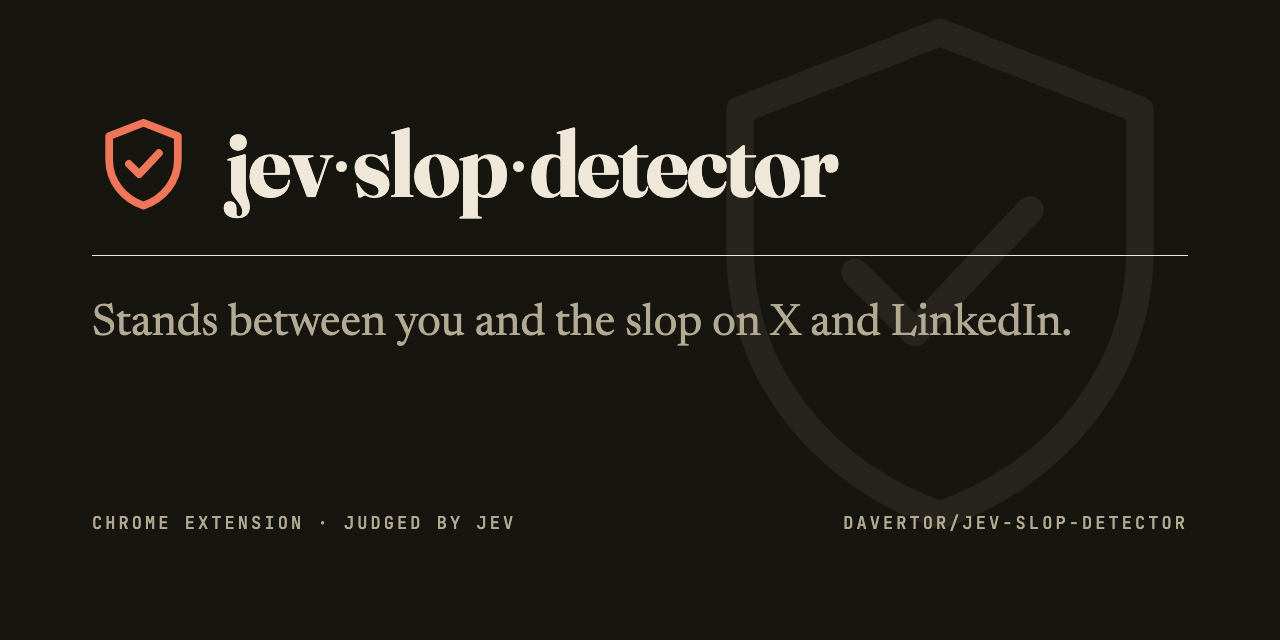
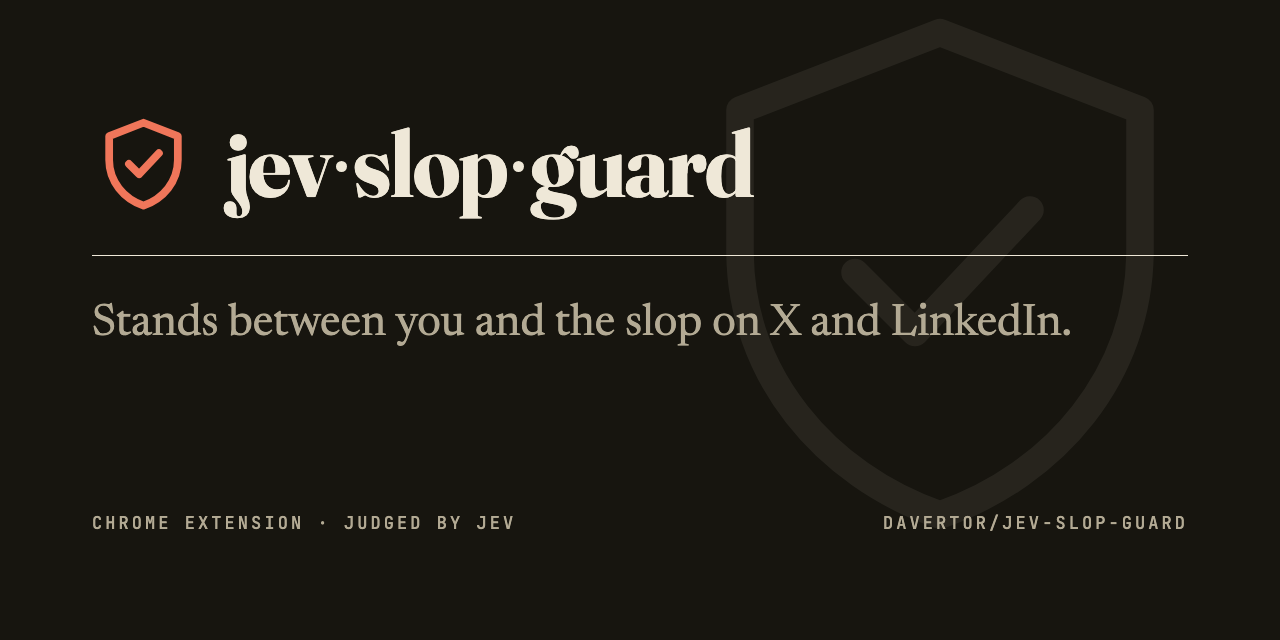
chore: rename to jev-slop-guard
Repo, package, manifest name (Jev Slop Guard), user-facing strings,
README, hero and social media all carry the same name. Storage keys
and CSS class prefixes stay unchanged so existing installs keep their
settings. Rebuilt chrome-mv3 at 0.1.24.

diff --git a/chrome-mv3/content-scripts/linkedin-feed.js b/chrome-mv3/content-scripts/linkedin-feed.js
@@ -765,7 +765,7 @@
 		if (document.querySelector(".slop-guard-banner")) return;
 		const banner = document.createElement("div");
 		banner.className = "slop-guard-banner";
-		banner.textContent = message ?? "Slop Guard: add your TypeSafe or OpenRouter API key in the extension popup.";
+		banner.textContent = message ?? "Jev Slop Guard: add your TypeSafe or OpenRouter API key in the extension popup.";
 		document.body.append(banner);
 	}
 	//#endregion
@@ -785,7 +785,7 @@
 				listArticles: listLinkedInArticles,
 				extract: extractLinkedInPost,
 				undoKey: "slopGuard.undone.linkedin.v1",
-				missingKeyMessage: "Slop Guard (LinkedIn): add your TypeSafe or OpenRouter API key in the extension popup."
+				missingKeyMessage: "Jev Slop Guard (LinkedIn): add your TypeSafe or OpenRouter API key in the extension popup."
 			});
 		}
 	});
@@ -809,7 +809,7 @@
 			bar.style.cssText = "position:fixed;left:12px;bottom:40px;z-index:2147483646;padding:6px 10px;border-radius:999px;background:#553011;color:#fff;font:12px/1.3 system-ui,sans-serif;pointer-events:none;";
 			document.body.append(bar);
 		}
-		bar.textContent = `Slop Guard LI · cards ${cards} · ready ${ready}`;
+		bar.textContent = `Jev Slop Guard LI · cards ${cards} · ready ${ready}`;
 	}
 	//#endregion
 	//#region node_modules/.pnpm/wxt@0.21.4_esbuild@0.28.2_eslint@9.39.4_jiti@2.7.0__rolldown@1.2.9_typescript@5.9.3_vit_47c24954015f6262a28dfea2974a21a8/node_modules/wxt/dist/utils/internal/logger.mjs
@@ -1056,7 +1056,7 @@
 		}
 	};
 	//#endregion
-	//#region \0virtual:wxt-content-script-isolated-world-entrypoint?/Users/dverdu/Python_projects/jev-slop-detector/entrypoints/linkedin-feed.content/index.ts
+	//#region \0virtual:wxt-content-script-isolated-world-entrypoint?/Users/davertor/Python_projects/jev-slop-detector/entrypoints/linkedin-feed.content/index.ts
 	/** Wrapper around `console` with a "[wxt]" prefix */
 	var logger = {
 		debug: (...args) => ([...args], void 0),

diff --git a/chrome-mv3/content-scripts/x-timeline.js b/chrome-mv3/content-scripts/x-timeline.js
@@ -876,7 +876,7 @@
 		if (document.querySelector(".slop-guard-banner")) return;
 		const banner = document.createElement("div");
 		banner.className = "slop-guard-banner";
-		banner.textContent = message ?? "Slop Guard: add your TypeSafe or OpenRouter API key in the extension popup.";
+		banner.textContent = message ?? "Jev Slop Guard: add your TypeSafe or OpenRouter API key in the extension popup.";
 		document.body.append(banner);
 	}
 	//#endregion
@@ -913,7 +913,7 @@
 			if (info.ok) ready += 1;
 			else {
 				missCounts.set(info.reason, (missCounts.get(info.reason) ?? 0) + 1);
-				console.debug("[slop-guard] extract", info.reason, card);
+				console.debug("[jev-slop-guard] extract", info.reason, card);
 			}
 		}
 		return {
@@ -1223,7 +1223,7 @@
 		}
 	};
 	//#endregion
-	//#region \0virtual:wxt-content-script-isolated-world-entrypoint?/Users/dverdu/Python_projects/jev-slop-detector/entrypoints/x-timeline.content/index.ts
+	//#region \0virtual:wxt-content-script-isolated-world-entrypoint?/Users/davertor/Python_projects/jev-slop-detector/entrypoints/x-timeline.content/index.ts
 	/** Wrapper around `console` with a "[wxt]" prefix */
 	var logger = {
 		debug: (...args) => ([...args], void 0),

diff --git a/entrypoints/linkedin-feed.content/index.ts b/entrypoints/linkedin-feed.content/index.ts
@@ -24,7 +24,7 @@ export default defineContentScript({
       extract: extractLinkedInPost,
       undoKey: 'slopGuard.undone.linkedin.v1',
       missingKeyMessage:
-        'Slop Guard (LinkedIn): add your TypeSafe or OpenRouter API key in the extension popup.',
+        'Jev Slop Guard (LinkedIn): add your TypeSafe or OpenRouter API key in the extension popup.',
     });
   },
 });
@@ -46,5 +46,5 @@ function showLiProbe(): void {
       'position:fixed;left:12px;bottom:40px;z-index:2147483646;padding:6px 10px;border-radius:999px;background:#553011;color:#fff;font:12px/1.3 system-ui,sans-serif;pointer-events:none;';
     document.body.append(bar);
   }
-  bar.textContent = `Slop Guard LI · cards ${cards} · ready ${ready}`;
+  bar.textContent = `Jev Slop Guard LI · cards ${cards} · ready ${ready}`;
 }

diff --git a/chrome-mv3/options.html b/chrome-mv3/options.html
@@ -3,11 +3,11 @@
   <head>
     <meta charset="UTF-8">
     <meta name="viewport" content="width=device-width, initial-scale=1.0">
-    <title>Slop Guard options</title>
+    <title>Jev Slop Guard options</title>
     <meta name="manifest.open_in_tab" content="true">
-    <script type="module" crossorigin src="/chunks/options-Cru38b9V.js"></script>
+    <script type="module" crossorigin src="/chunks/options-BApkLZN-.js"></script>
     <link rel="modulepreload" crossorigin href="/chunks/settings-DRS-MZ5q.js">
-    <link rel="modulepreload" crossorigin href="/chunks/settings-ui-B5-7mkm2.js">
+    <link rel="modulepreload" crossorigin href="/chunks/settings-ui-DfzwOyxx.js">
     <link rel="stylesheet" crossorigin href="/assets/settings-ui-WEyiZskk.css">
   </head>
   <body>

diff --git a/chrome-mv3/popup.html b/chrome-mv3/popup.html
@@ -3,10 +3,10 @@
   <head>
     <meta charset="UTF-8">
     <meta name="viewport" content="width=device-width, initial-scale=1.0">
-    <title>Slop Guard</title>
-    <script type="module" crossorigin src="/chunks/popup-C5KjBhGk.js"></script>
+    <title>Jev Slop Guard</title>
+    <script type="module" crossorigin src="/chunks/popup-Y6wGYbAY.js"></script>
     <link rel="modulepreload" crossorigin href="/chunks/settings-DRS-MZ5q.js">
-    <link rel="modulepreload" crossorigin href="/chunks/settings-ui-B5-7mkm2.js">
+    <link rel="modulepreload" crossorigin href="/chunks/settings-ui-DfzwOyxx.js">
     <link rel="stylesheet" crossorigin href="/assets/settings-ui-WEyiZskk.css">
   </head>
   <body>

diff --git a/chrome-mv3/background.js b/chrome-mv3/background.js
@@ -1082,7 +1082,7 @@ var background = (function() {
 			if (settings.paused) return {
 				ok: false,
 				code: "PAUSED",
-				error: "Slop Guard is paused."
+				error: "Jev Slop Guard is paused."
 			};
 			if (!settings.apiKey.trim()) return {
 				ok: false,
@@ -1113,7 +1113,7 @@ var background = (function() {
 		}
 	}
 	//#endregion
-	//#region \0virtual:wxt-background-entrypoint?/Users/dverdu/Python_projects/jev-slop-detector/entrypoints/background.ts
+	//#region \0virtual:wxt-background-entrypoint?/Users/davertor/Python_projects/jev-slop-detector/entrypoints/background.ts
 	/** Wrapper around `console` with a "[wxt]" prefix */
 	var logger = {
 		debug: (...args) => ([...args], void 0),

diff --git a/preview/index.html b/preview/index.html
@@ -3,7 +3,7 @@
   <head>
     <meta charset="UTF-8" />
     <meta name="viewport" content="width=device-width, initial-scale=1.0" />
-    <title>Slop Guard</title>
+    <title>Jev Slop Guard</title>
     <style>
       :root {
         color-scheme: dark;
@@ -63,7 +63,7 @@
   </head>
   <body>
     <main>
-      <p class="eyebrow">Slop Guard</p>
+      <p class="eyebrow">Jev Slop Guard</p>
       <h1>Real-time slop detector on X</h1>
       <p class="lede">
         Green <strong>Slop | NN%</strong> is <code>slopP</code> under the threshold (post intact).

diff --git a/chrome-mv3/playground.html b/chrome-mv3/playground.html
@@ -3,7 +3,7 @@
   <head>
     <meta charset="UTF-8">
     <meta name="viewport" content="width=device-width, initial-scale=1.0">
-    <title>Slop Guard playground</title>
+    <title>Jev Slop Guard playground</title>
     <script type="module" crossorigin src="/chunks/playground-DMFhp-_W.js"></script>
     <link rel="modulepreload" crossorigin href="/chunks/settings-DRS-MZ5q.js">
     <link rel="stylesheet" crossorigin href="/assets/playground-ZmTOPa1A.css">

diff --git a/lib/timeline-guard.ts b/lib/timeline-guard.ts
@@ -262,6 +262,6 @@ function showMissingKeyBanner(state: { shown: boolean }, message?: string): void
   const banner = document.createElement('div');
   banner.className = 'slop-guard-banner';
   banner.textContent =
-    message ?? 'Slop Guard: add your TypeSafe or OpenRouter API key in the extension popup.';
+    message ?? 'Jev Slop Guard: add your TypeSafe or OpenRouter API key in the extension popup.';
   document.body.append(banner);
 }

diff --git a/entrypoints/background.ts b/entrypoints/background.ts
@@ -125,7 +125,7 @@ async function judge(tweet: { id: string; text: string; handle: string }): Promi
 
     const settings = await loadSettings();
     if (settings.paused) {
-      return { ok: false, code: 'PAUSED', error: 'Slop Guard is paused.' };
+      return { ok: false, code: 'PAUSED', error: 'Jev Slop Guard is paused.' };
     }
     if (!settings.apiKey.trim()) {
       return {

diff --git a/lib/settings-ui.ts b/lib/settings-ui.ts
@@ -5,7 +5,7 @@ import { DEFAULT_SETTINGS, loadSettings, saveSettings, type Settings } from './s
 export const SETTINGS_FORM_HTML = `
   <header>
     <div>
-      <p class="eyebrow">Slop Guard</p>
+      <p class="eyebrow">Jev Slop Guard</p>
       <h1>Real-time slop detector</h1>
     </div>
     <button id="pause-toggle" type="button" class="pause-toggle">Pause</button>

diff --git a/chrome-mv3/chunks/settings-ui-DfzwOyxx.js b/chrome-mv3/chunks/settings-ui-DfzwOyxx.js
@@ -3,7 +3,7 @@ import { a as chromeApi, c as sendRuntimeMessage, l as sendTabMessage, n as load
 var SETTINGS_FORM_HTML = `
   <header>
     <div>
-      <p class="eyebrow">Slop Guard</p>
+      <p class="eyebrow">Jev Slop Guard</p>
       <h1>Real-time slop detector</h1>
     </div>
     <button id="pause-toggle" type="button" class="pause-toggle">Pause</button>
